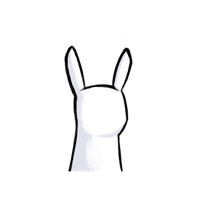
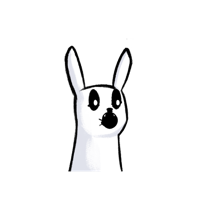
фикс отображения в браузере

Changed region(s): [[0.48, 0.42, 0.63, 0.66], [0.42, 0.42, 0.51, 0.57]]

diff --git a/main.py b/main.py
@@ -1,4 +1,4 @@
-import threading
+import threading, time
 import tkinter as tk
 from tkinter import ttk, messagebox
 from editor import ModelEditor
@@ -70,7 +70,7 @@ class App:
         self.renderer = Renderer(width=700, height=700, fps=60)
         self.audio = AudioProcessor(callback=self.on_audio_level,
                                    device=self.settings.get('mic_device'))
-        self.audio.noise_gate_threshold = 0.01
+        self.audio.noise_gate_threshold = self.settings.get('noise_gate_threshold', 0.01)
         self.webserver = None
 
         # Настройки по умолчанию
@@ -167,10 +167,19 @@ class App:
         sens_scale.pack(fill="x")
         sens_scale.bind("<ButtonRelease-1>", lambda e: self.on_sensitivity_change())
 
-        # Подавление шума
+        # Подавление шума с настройкой мощности
+        noise_gate_frame = ttk.Frame(mic_frame)
+        noise_gate_frame.pack(fill="x", pady=2)
+        
         self.noise_gate_enabled = tk.BooleanVar(value=self.settings.get('noise_gate_enabled', True))
-        ttk.Checkbutton(mic_frame, text="Подавление шума", variable=self.noise_gate_enabled,
-                       command=self.toggle_noise_gate).pack(anchor="w")
+        ttk.Checkbutton(noise_gate_frame, text="Подавление шума", variable=self.noise_gate_enabled,
+                       command=self.toggle_noise_gate).pack(side="left")
+        
+        self.noise_gate_threshold = tk.DoubleVar(value=self.settings.get('noise_gate_threshold', 0.01))
+        noise_gate_scale = ttk.Scale(noise_gate_frame, from_=0.001, to=0.05, variable=self.noise_gate_threshold, 
+                                   orient="horizontal", length=100)
+        noise_gate_scale.pack(side="left", padx=5)
+        noise_gate_scale.bind("<ButtonRelease-1>", lambda e: self.update_noise_gate_threshold())
 
         # Индикатор уровня
         ttk.Label(mic_frame, text="Индикатор уровня:").pack(anchor="w", pady=(5,0))
@@ -297,7 +306,7 @@ class App:
         # Запуск рендерера
         self.renderer.start()
         self.renderer.set_thresholds(self.thresholds)
-        self.renderer.set_noise_gate(0.01 if self.noise_gate_enabled.get() else 0.0)
+        self.renderer.set_noise_gate(self.noise_gate_threshold.get() if self.noise_gate_enabled.get() else 0.0)
         self.renderer.set_idle(self.idle_enabled.get(), self.idle_timeout.get())
 
         # Применение начальных состояний
@@ -335,7 +344,7 @@ class App:
         except Exception as e:
             logger.error(f"Error stopping audio: {e}")
         self.audio = AudioProcessor(callback=self.on_audio_level, device=device_name)
-        self.toggle_noise_gate()
+        self.audio.noise_gate_threshold = self.noise_gate_threshold.get() if self.noise_gate_enabled.get() else 0.0
         self.audio.start()
         logger.info(f"Audio device changed to: {device_name}")
 
@@ -349,10 +358,18 @@ class App:
     def toggle_noise_gate(self):
         """Переключение подавления шума"""
         enabled = self.noise_gate_enabled.get()
-        threshold = 0.01 if enabled else 0.0
+        threshold = self.noise_gate_threshold.get() if enabled else 0.0
         self.audio.noise_gate_threshold = threshold
         self.renderer.set_noise_gate(threshold)
-        logger.info(f"Noise gate {'enabled' if enabled else 'disabled'}")
+        logger.info(f"Noise gate {'enabled' if enabled else 'disabled'} with threshold: {threshold}")
+
+    def update_noise_gate_threshold(self):
+        """Обновление порога подавления шума"""
+        if self.noise_gate_enabled.get():
+            threshold = self.noise_gate_threshold.get()
+            self.audio.noise_gate_threshold = threshold
+            self.renderer.set_noise_gate(threshold)
+            logger.info(f"Noise gate threshold updated to: {threshold}")
 
     def update_effects(self):
         """Обновление эффектов"""
@@ -397,6 +414,7 @@ class App:
             },
             'sensitivity': self.sensitivity.get(),
             'noise_gate_enabled': self.noise_gate_enabled.get(),
+            'noise_gate_threshold': self.noise_gate_threshold.get(),
             'mic_device': self.device_var.get(),
             'idle_enabled': self.idle_enabled.get(),
             'idle_timeout': self.idle_timeout.get()
@@ -587,7 +605,7 @@ class App:
                 main_window, 
                 on_save=self.on_model_saved,
                 device=self.device_var.get(),
-                noise_gate_enabled=self.noise_gate_enabled.get(),
+                noise_gate_threshold=self.noise_gate_threshold.get() if self.noise_gate_enabled.get() else 0.0,
                 sensitivity=self.sensitivity.get(),
                 thresholds=self.thresholds
             )
@@ -608,7 +626,7 @@ class App:
                         callback=self.on_audio_level,
                         device=self.device_var.get()
                     )
-                    self.audio.noise_gate_threshold = 0.01 if self.noise_gate_enabled.get() else 0.0
+                    self.audio.noise_gate_threshold = self.noise_gate_threshold.get() if self.noise_gate_enabled.get() else 0.0
                     self.audio.set_sensitivity(self.sensitivity.get())
                     self.audio.start()
                 except Exception as e:

diff --git a/editor.py b/editor.py
@@ -142,7 +142,7 @@ class CanvasItem:
         return self.transformed_image if self.transformed_image else self.original_image
 
 class ModelEditor(tk.Toplevel):
-    def __init__(self, master, on_save=None, device='По умолчанию', noise_gate_enabled=True, sensitivity=1.0, thresholds=None):
+    def __init__(self, master, on_save=None, device='По умолчанию', noise_gate_threshold=0.01, sensitivity=1.0, thresholds=None):
         super().__init__(master)
         self.title("Редактор моделей")
         self.geometry("1400x800")
@@ -152,7 +152,7 @@ class ModelEditor(tk.Toplevel):
         
         # Сохраняем настройки микрофона
         self.mic_device = device
-        self.mic_noise_gate_enabled = noise_gate_enabled
+        self.mic_noise_gate_threshold = noise_gate_threshold
         self.mic_sensitivity = sensitivity
         self.thresholds = thresholds or {
             'silent': 0.05,
@@ -255,8 +255,6 @@ class ModelEditor(tk.Toplevel):
         test_frame.pack(fill="x", pady=10)
         
         self.test_mode_var = tk.StringVar(value="none")
-        ttk.Radiobutton(test_frame, text="Симуляция", variable=self.test_mode_var, 
-                       value="simulate", command=self.update_test_mode).pack(anchor="w")
         ttk.Radiobutton(test_frame, text="Микрофон", variable=self.test_mode_var, 
                        value="microphone", command=self.update_test_mode).pack(anchor="w")
         ttk.Radiobutton(test_frame, text="Выкл", variable=self.test_mode_var, 
@@ -274,7 +272,7 @@ class ModelEditor(tk.Toplevel):
             callback=self.on_audio_level,
             device=self.mic_device
         )
-        self.audio_processor.noise_gate_threshold = 0.01 if self.mic_noise_gate_enabled else 0.0
+        self.audio_processor.noise_gate_threshold = self.mic_noise_gate_threshold
         self.audio_processor.set_sensitivity(self.mic_sensitivity)
         
         ttk.Label(left, text="Импортированные изображения:").pack(anchor="w", pady=(8, 0))
@@ -1327,7 +1325,7 @@ class ModelEditor(tk.Toplevel):
                     callback=self.on_audio_level,
                     device=self.mic_device
                 )
-                self.audio_processor.noise_gate_threshold = 0.01 if self.mic_noise_gate_enabled else 0.0
+                self.audio_processor.noise_gate_threshold = self.mic_noise_gate_threshold
                 self.audio_processor.set_sensitivity(self.mic_sensitivity)
                 self.audio_processor.start()
             except Exception as e:
@@ -1563,12 +1561,10 @@ class ModelEditor(tk.Toplevel):
         center_x = self.canvas_width // 2
         center_y = self.canvas_height // 2
         
-        # Используем логику групп для создания превью в режиме "open" (нейтральное состояние)
-        visible_items = self._get_visible_items_for_state("open")
+        # Используем все видимые элементы для превью (не только по логике групп)
+        visible_items = [ci for ci in self.items if ci.visible]
         
         for ci in visible_items:
-            if not ci.visible:
-                continue
             img = ci.get_current_image()
             if not img:
                 continue
@@ -2139,27 +2135,7 @@ class ModelEditor(tk.Toplevel):
             
             if mode == "microphone":
                 level = self.audio_level
-            elif mode == "simulate":
-                # Плавная симуляция от 0 до максимума и обратно
-                cycle_duration = 10.0  # Полный цикл (туда и обратно)
-                half_cycle = cycle_duration / 2
-                cycle_pos = now % cycle_duration
-                
-                # Плавное изменение уровня от минимального до максимального и обратно
-                min_level = 0.0  # Минимальный уровень (тишина)
-                max_level = 1.0   # Максимальный уровень (крик)
-                
-                if cycle_pos < half_cycle:
-                    # Нарастание уровня
-                    normalized_pos = cycle_pos / half_cycle
-                else:
-                    # Убывание уровня
-                    normalized_pos = 1 - ((cycle_pos - half_cycle) / half_cycle)
-                    
-                level = min_level + (max_level - min_level) * normalized_pos
-                level = level * self.mic_sensitivity
-                self.level_bar["value"] = level * 100
-            else:
+            elif mode == "none":
                 level = 0.0
                 
             self.redraw_canvas(level, mode)

diff --git a/renderer.py b/renderer.py
@@ -381,12 +381,13 @@ class Renderer:
                     if available:
                         chosen = random.choice(available)
                         self.group_random_current[group_name] = chosen
+                        # Устанавливаем новый таймер
+                        interval = random.uniform(min_time, max_time)
+                        self.group_random_timers[group_name] = now + interval
             
-            interval = random.uniform(min_time, max_time)
-            self.group_random_timers[group_name] = now + interval
-            
-        if self.group_random_current.get(group_name):
-            return self.group_random_current.get(group_name)
+            # Возвращаем текущий случайный выбор, если он есть
+            if self.group_random_current.get(group_name):
+                return self.group_random_current.get(group_name)
         
         # Определение текущего состояния на основе уровня звука
         current_state = "silent"
